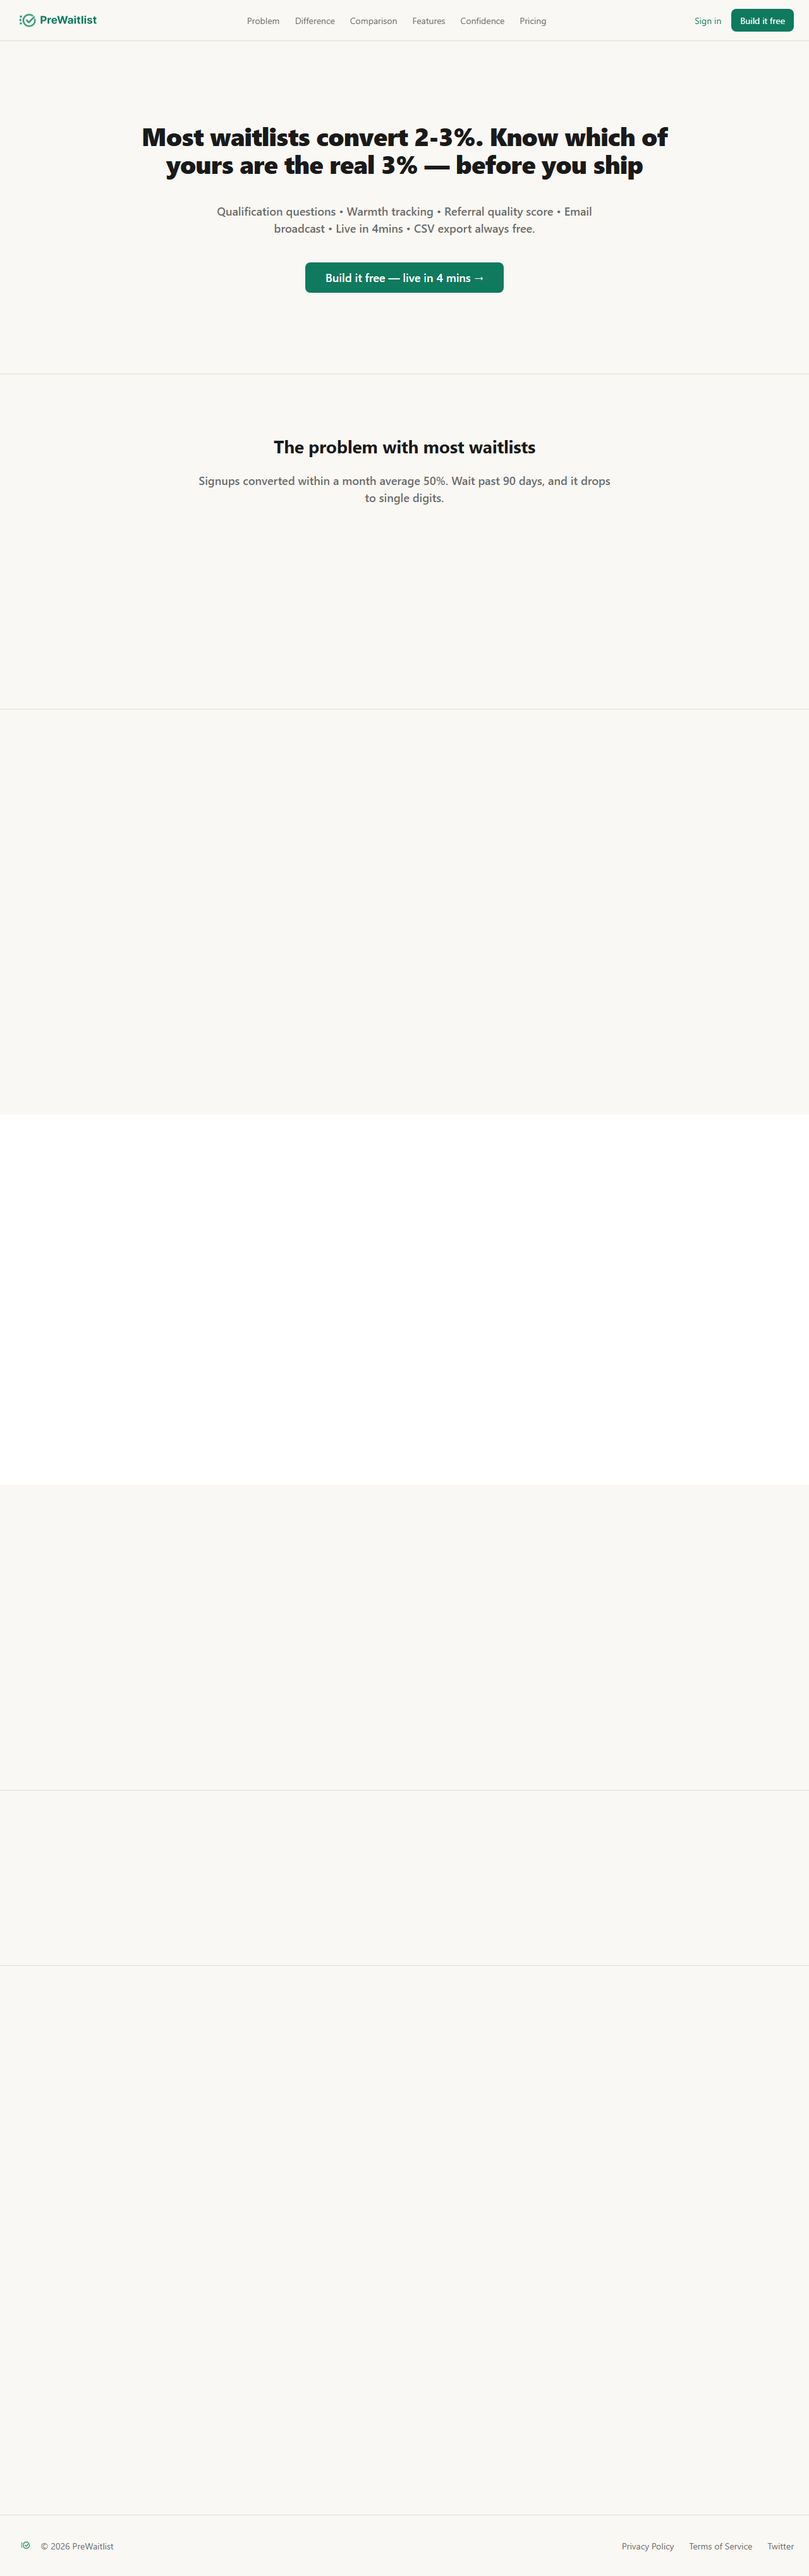
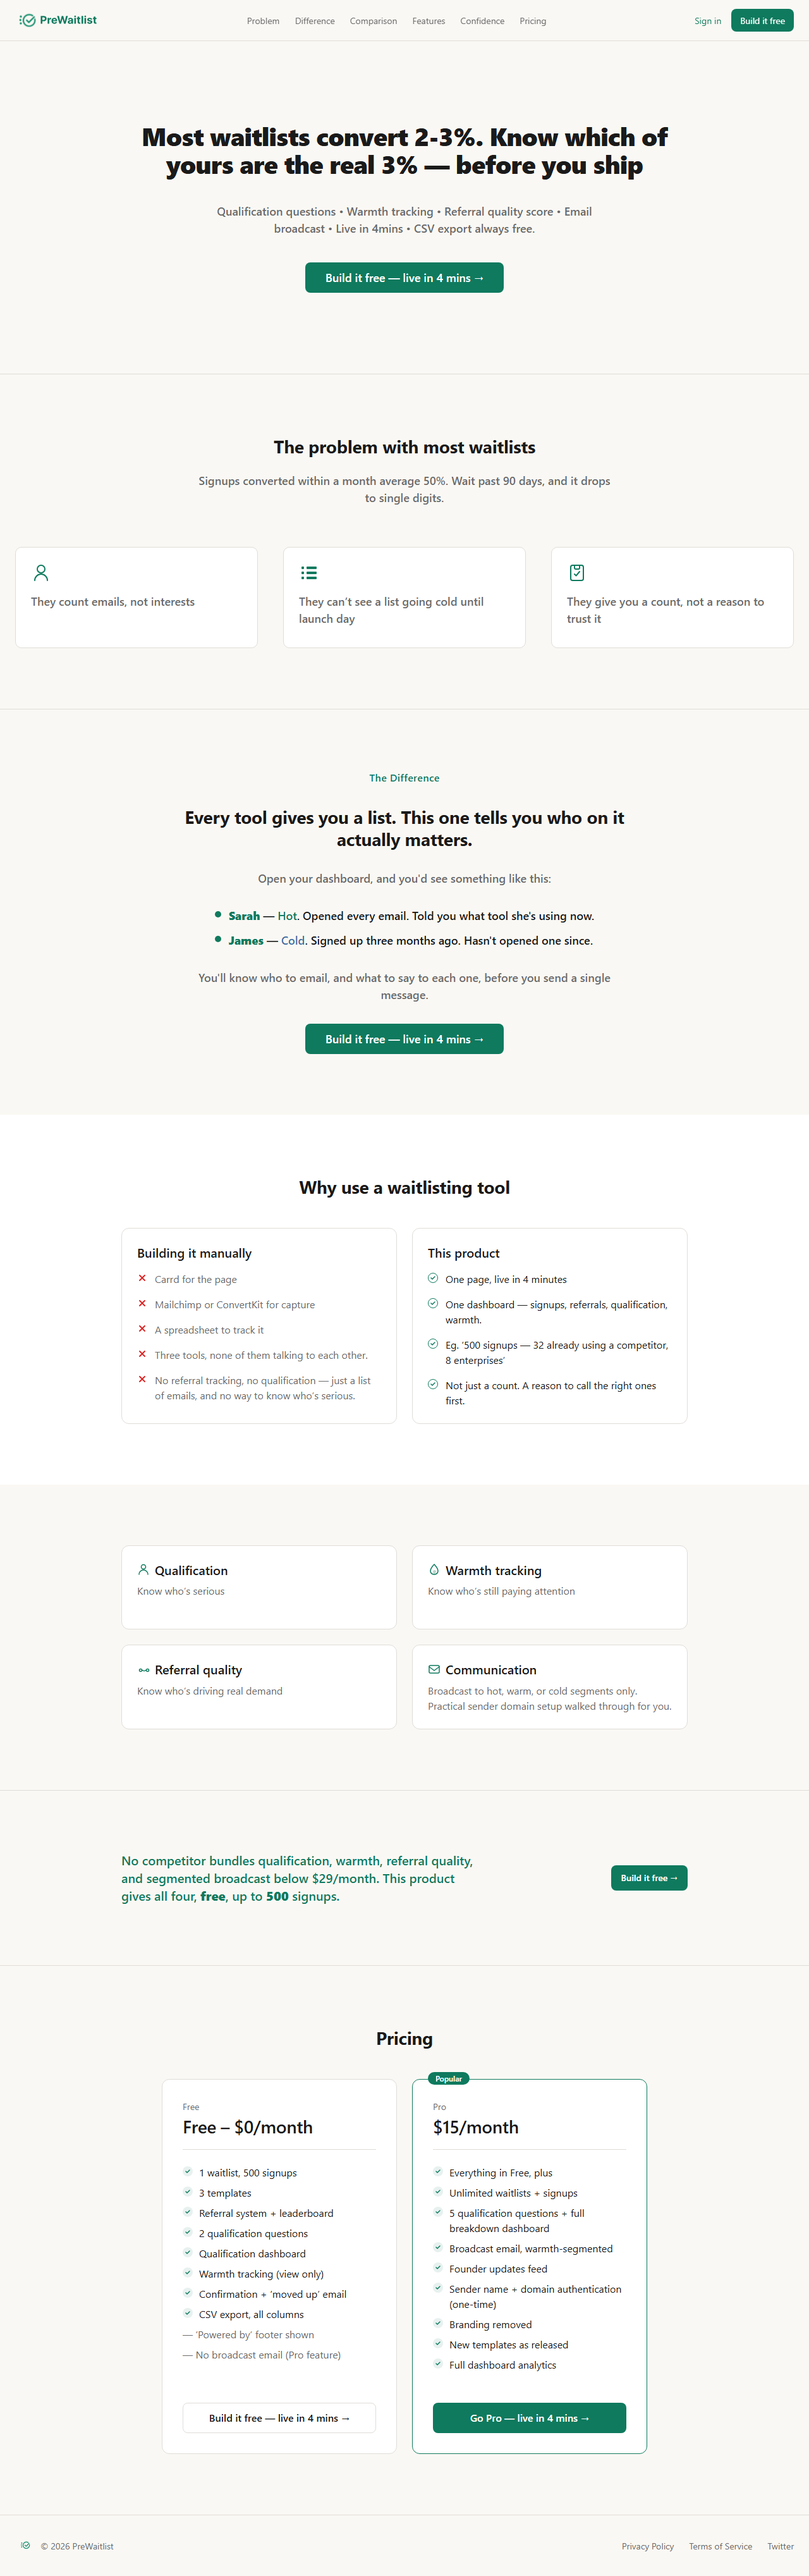
fix: story 21.2 audit fixes — try/finally tier restore, settle-scroll for whileInView marketing shot, CAPTURE_FILTER, manifest gone-page refs

diff --git a/tests/e2e/capture-screenshots.spec.ts b/tests/e2e/capture-screenshots.spec.ts
@@ -42,6 +42,7 @@ interface ShotSpec {
   viewport: "desktop" | "mobile";
   fullPage: boolean;
   inventoryId: string; // 21.1 inventory page ID
+  settleScroll?: boolean; // scroll page first — whileInView sections (marketing home)
 }
 
 /**
@@ -60,6 +61,7 @@ const SHOTS: ShotSpec[] = [
     viewport: "desktop",
     fullPage: true,
     inventoryId: "28",
+    settleScroll: true, // FadeIn/StaggerGroup are whileInView — scroll first
   },
   {
     nn: "02",
@@ -340,6 +342,15 @@ test("capture core screenshot set", async ({ page }) => {
   test.setTimeout(240_000);
   fs.mkdirSync(SHOTS_DIR, { recursive: true });
 
+  // Partial re-run: CAPTURE_FILTER=01 runs only that NN id (anon-only path —
+  // login, seed, and tier flips are skipped when no auth/pro shots are selected).
+  const filter = process.env.CAPTURE_FILTER ?? "";
+  const run: ShotSpec[] = filter ? SHOTS.filter((s) => s.nn === filter) : SHOTS;
+  if (filter && run.length === 0) {
+    throw new Error(`CAPTURE_FILTER=${filter} matched no shots`);
+  }
+  const needsAuth = run.some((s) => s.phase !== "anon");
+
   const captured: string[] = [];
   const failures: string[] = [];
 
@@ -356,6 +367,32 @@ test("capture core screenshot set", async ({ page }) => {
     );
   };
 
+  /**
+   * whileInView sections (framer-motion, marketing home) never trigger from a
+   * fullPage screenshot — Playwright stitches the viewport without scrolling,
+   * so below-fold sections stay in their hidden initial state. Scroll through
+   * the page in viewport steps so every section crosses its viewport amount
+   * (0.2-0.3), wait for the staggered transitions (≤0.5s items + 0.12s
+   * stagger), then return to top before capturing.
+   */
+  const settleScroll = async (p: Page) => {
+    await p.evaluate(async () => {
+      const step = Math.max(window.innerHeight * 0.75, 400);
+      const pause = (ms: number) =>
+        new Promise<void>((resolve) => setTimeout(resolve, ms));
+      const maxY = document.documentElement.scrollHeight;
+      for (let y = 0; y <= maxY; y += step) {
+        window.scrollTo(0, y);
+        await pause(180);
+      }
+      window.scrollTo(0, maxY);
+      await pause(300);
+    });
+    await p.waitForTimeout(2000);
+    await p.evaluate(() => window.scrollTo(0, 0));
+    await p.waitForTimeout(300);
+  };
+
   const shoot = async (spec: ShotSpec, ids: Record<string, string>) => {
     const url = spec.url.replace(
       /\{(\w+)\}/g,
@@ -369,6 +406,9 @@ test("capture core screenshot set", async ({ page }) => {
         .waitForLoadState("networkidle", { timeout: 5_000 })
         .catch(() => undefined);
       await page.evaluate(() => document.fonts.ready);
+      if (spec.settleScroll) {
+        await settleScroll(page);
+      }
       await page.mouse.move(-1, -1);
       const file = `${spec.nn}-${spec.id}-${spec.viewport}.png`;
       await page.screenshot({
@@ -400,11 +440,22 @@ test("capture core screenshot set", async ({ page }) => {
 
   // ---------- Phase A: anon captures (no auth) ----------
   console.log("Phase A: anon captures");
-  for (const spec of SHOTS.filter((s) => s.phase === "anon")) {
+  for (const spec of run.filter((s) => s.phase === "anon")) {
     if (spec.id.startsWith("onboarding-")) {
       await setDraft(page, "free");
     }
     await shoot(spec, { subdomain: QA_SUBDOMAIN });
+  }
+
+  if (!needsAuth) {
+    console.log(
+      `\nCaptured ${captured.length}/${run.length} shots (anon-only filter)`
+    );
+    if (failures.length > 0) {
+      console.error(`Failures (${failures.length}):\n${failures.join("\n")}`);
+      throw new Error(`${failures.length} captures failed`);
+    }
+    return;
   }
 
   // ---------- Login + seed ----------
@@ -507,91 +558,95 @@ test("capture core screenshot set", async ({ page }) => {
 
   // ---------- Phase B: authed free-tier captures ----------
   console.log("Phase B: authed free captures");
-  for (const spec of SHOTS.filter((s) => s.phase === "auth")) {
+  for (const spec of run.filter((s) => s.phase === "auth")) {
     await shoot(spec, ids);
   }
 
   // ---------- Phase C: pro flips ----------
   console.log("Phase C: pro captures");
   if (!creds.id) {
-    // Derive user id from the profile endpoint if the creds file lacks it.
-    const profRes = await api.get("/api/profile");
-    if (!profRes.ok()) {
-      throw new Error(`profile fetch failed: ${profRes.status()}`);
-    }
-    // profile response has no raw id — fall back to waitlist founder via REST
+    // Resolve founder id via REST (secret key — independent of browser session).
     const envLocal = loadEnvLocal();
     const base =
       process.env.NEXT_PUBLIC_SUPABASE_URL || envLocal.NEXT_PUBLIC_SUPABASE_URL;
     const key = process.env.SUPABASE_SECRET_KEY || envLocal.SUPABASE_SECRET_KEY;
-    if (base && key) {
-      const wRes = await fetch(
-        `${base}/rest/v1/waitlists?id=eq.${waitlistId}&select=founder_id`,
-        {
-          headers: { apikey: key, Authorization: `Bearer ${key}` },
-        }
+    if (!base || !key) {
+      throw new Error(
+        "cannot resolve founder user id — creds.id missing and NEXT_PUBLIC_SUPABASE_URL/SUPABASE_SECRET_KEY unset"
       );
-      const wRows = await wRes.json();
-      if (Array.isArray(wRows) && wRows[0]?.founder_id) {
-        creds.id = wRows[0].founder_id as string;
+    }
+    const wRes = await fetch(
+      `${base}/rest/v1/waitlists?id=eq.${waitlistId}&select=founder_id`,
+      {
+        headers: { apikey: key, Authorization: `Bearer ${key}` },
       }
+    );
+    const wRows = wRes.ok() ? await wRes.json() : [];
+    if (Array.isArray(wRows) && wRows[0]?.founder_id) {
+      creds.id = wRows[0].founder_id as string;
     }
   }
   if (!creds.id) {
     throw new Error("cannot resolve founder user id for tier flip");
   }
 
-  await setTier("pro", creds.id);
+  // try/finally: a timeout or throw mid-pro-phase must never leave the QA
+  // account on pro — that would silently corrupt the next run's free-state
+  // shots (13-dashboard-home-free, 15-dashboard-warmth-free).
+  try {
+    await setTier("pro", creds.id);
 
-  // Ensure an empty waitlist exists for the empty-dashboard shot (pro = unlimited).
-  let emptyRow = findRow(EMPTY_SUBDOMAIN);
-  let emptyWaitlistId = emptyRow?.waitlistId ?? emptyRow?.id ?? "";
-  if (!emptyWaitlistId) {
-    // Re-read the list — we may have created qa-mobile above.
-    const freshList = await api.get("/api/waitlist");
-    const freshRows: {
-      waitlistId?: string;
-      id?: string;
-      slug?: string;
-      subdomain?: string;
-    }[] = freshList.ok() ? await freshList.json() : [];
-    emptyRow = freshRows.find(
-      (w) => w.slug === EMPTY_SUBDOMAIN || w.subdomain === EMPTY_SUBDOMAIN
-    );
-    emptyWaitlistId = emptyRow?.waitlistId ?? emptyRow?.id ?? "";
-  }
-  if (!emptyWaitlistId) {
-    const createRes = await api.post("/api/waitlist", {
-      data: {
-        subdomain: EMPTY_SUBDOMAIN,
-        headline: "Empty State Capture",
-        subheadline: "Zero-subscriber dashboard state.",
-        product_name: "QA Empty",
-        template: "minimal",
-      },
-    });
-    if (createRes.ok()) {
-      emptyWaitlistId = (await createRes.json()).id as string;
-    } else {
-      console.warn(
-        `qa-empty create failed (${createRes.status()}) — empty-dashboard shot will fall back to qa-mobile`
+    // Ensure an empty waitlist exists for the empty-dashboard shot (pro = unlimited).
+    let emptyRow = findRow(EMPTY_SUBDOMAIN);
+    let emptyWaitlistId = emptyRow?.waitlistId ?? emptyRow?.id ?? "";
+    if (!emptyWaitlistId) {
+      // Re-read the list — we may have created qa-mobile above.
+      const freshList = await api.get("/api/waitlist");
+      const freshRows: {
+        waitlistId?: string;
+        id?: string;
+        slug?: string;
+        subdomain?: string;
+      }[] = freshList.ok() ? await freshList.json() : [];
+      emptyRow = freshRows.find(
+        (w) => w.slug === EMPTY_SUBDOMAIN || w.subdomain === EMPTY_SUBDOMAIN
       );
+      emptyWaitlistId = emptyRow?.waitlistId ?? emptyRow?.id ?? "";
     }
-  }
-  ids.emptyWaitlistId = emptyWaitlistId || waitlistId;
-  console.log(`qa-empty waitlist: ${ids.emptyWaitlistId}`);
+    if (!emptyWaitlistId) {
+      const createRes = await api.post("/api/waitlist", {
+        data: {
+          subdomain: EMPTY_SUBDOMAIN,
+          headline: "Empty State Capture",
+          subheadline: "Zero-subscriber dashboard state.",
+          product_name: "QA Empty",
+          template: "minimal",
+        },
+      });
+      if (!createRes.ok()) {
+        // Never fall back to qa-mobile — a populated dashboard labeled
+        // "empty" is worse evidence than a failed run.
+        throw new Error(
+          `qa-empty waitlist create failed: ${createRes.status()} ${await createRes.text()}`
+        );
+      }
+      emptyWaitlistId = (await createRes.json()).id as string;
+    }
+    ids.emptyWaitlistId = emptyWaitlistId;
+    console.log(`qa-empty waitlist: ${ids.emptyWaitlistId}`);
 
-  for (const spec of SHOTS.filter((s) => s.phase === "pro")) {
-    await setDraft(page, "pro");
-    await shoot(spec, ids);
+    for (const spec of run.filter((s) => s.phase === "pro")) {
+      await setDraft(page, "pro");
+      await shoot(spec, ids);
+    }
+  } finally {
+    // ---------- Restore free tier (re-run determinism) ----------
+    await setTier("free", creds.id);
+    console.log("Tier restored to free");
   }
-
-  // ---------- Restore free tier (re-run determinism) ----------
-  await setTier("free", creds.id);
-  console.log("Tier restored to free");
 
   // ---------- Summary ----------
-  console.log(`\nCaptured ${captured.length}/${SHOTS.length} shots`);
+  console.log(`\nCaptured ${captured.length}/${run.length} shots`);
   if (failures.length > 0) {
     console.error(`Failures (${failures.length}):\n${failures.join("\n")}`);
     throw new Error(`${failures.length} captures failed`);

diff --git a/docs/qa/screenshots/manifest.md b/docs/qa/screenshots/manifest.md
@@ -6,29 +6,31 @@ Naming: `NN-page-state-viewport.png`. Desktop = 1280×800, Mobile = 375×667. Al
 
 ## Core set (NN-*)
 
-| #   | Filename                                | Page                                          | State                                 | Viewport | Full page | Inventory ID |
-| --- | --------------------------------------- | --------------------------------------------- | ------------------------------------- | -------- | --------- | ------------ |
-| 01  | `01-marketing-home-desktop.png`         | Marketing homepage                            | Cold visitor                          | desktop  | yes       | 28           |
-| 02  | `02-waitlist-populated-desktop.png`     | Public waitlist (`quality`, Minimal template) | Populated, free tier                  | desktop  | yes       | 29           |
-| 03  | `03-leaderboard-public-desktop.png`     | Public leaderboard (`quality`)                | Populated                             | desktop  | yes       | 31           |
-| 04  | `04-gone-archived-desktop.png`          | Gone / archived notice (`quality/gone`)       | Archived guard                        | desktop  | no        | guard        |
-| 05  | `05-waitlist-dark-template-desktop.png` | Public waitlist (`p`, Dark template)          | Populated, alt template               | desktop  | yes       | 29           |
-| 06  | `06-signup-desktop.png`                 | Signup                                        | Anonymous                             | desktop  | no        | 9            |
-| 07  | `07-onboarding-1-desktop.png`           | Onboarding Step 1                             | Phase A draft (localStorage)          | desktop  | no        | 1            |
-| 08  | `08-onboarding-3-desktop.png`           | Onboarding Step 3                             | Phase A draft (localStorage)          | desktop  | no        | 3            |
-| 09  | `09-waitlist-populated-mobile.png`      | Public waitlist (`quality`)                   | Populated                             | mobile   | yes       | 29           |
-| 10  | `10-leaderboard-public-mobile.png`      | Public leaderboard (`quality`)                | Populated                             | mobile   | yes       | 31           |
-| 11  | `11-gone-archived-mobile.png`           | Gone / archived notice                        | Archived guard                        | mobile   | no        | guard        |
-| 12  | `12-thank-you-desktop.png`              | Thank-you (`qa-mobile`, seeded ids)           | Referred variant                      | desktop  | no        | 30           |
-| 13  | `13-dashboard-home-free-desktop.png`    | Dashboard overview                            | Populated, free tier                  | desktop  | no        | 15           |
-| 14  | `14-dashboard-leaderboard-desktop.png`  | Dashboard leaderboard                         | Populated                             | desktop  | no        | 16           |
-| 15  | `15-dashboard-warmth-free-desktop.png`  | Dashboard warmth                              | Free (locked state)                   | desktop  | no        | 18           |
-| 16  | `16-settings-hub-desktop.png`           | Settings hub                                  | Free tier                             | desktop  | no        | 22           |
-| 17  | `17-thank-you-mobile.png`               | Thank-you (`qa-mobile`)                       | Referred variant                      | mobile   | no        | 30           |
-| 18  | `18-onboarding-5-desktop.png`           | Onboarding Step 5                             | Phase B, pro tier (guard bypass)      | desktop  | no        | 6            |
-| 19  | `19-onboarding-success-desktop.png`     | Onboarding success                            | Phase B, pro tier                     | desktop  | no        | 7            |
-| 20  | `20-dashboard-home-pro-desktop.png`     | Dashboard overview                            | Populated, pro tier (warmth unlocked) | desktop  | no        | 15           |
-| 21  | `21-dashboard-empty-desktop.png`        | Dashboard overview (`qa-empty`)               | Zero subscribers, empty state         | desktop  | no        | 15           |
+| #   | Filename                                | Page                                          | State                        | Viewport | Full page | Inventory ID |
+| --- | --------------------------------------- | --------------------------------------------- | ---------------------------- | -------- | --------- | ------------ |
+| 01  | `01-marketing-home-desktop.png`         | Marketing homepage                            | Cold visitor                 | desktop  | yes       | 28           |
+| 02  | `02-waitlist-populated-desktop.png`     | Public waitlist (`quality`, Minimal template) | Populated, free tier         | desktop  | yes       | 29           |
+| 03  | `03-leaderboard-public-desktop.png`     | Public leaderboard (`quality`)                | Populated                    | desktop  | yes       | 31           |
+| 04  | `04-gone-archived-desktop.png`          | Gone / archived notice (`quality/gone`)       | Archived guard               | desktop  | no        | §6/§7†       |
+| 05  | `05-waitlist-dark-template-desktop.png` | Public waitlist (`p`, Dark template)          | Populated, alt template      | desktop  | yes       | 29           |
+| 06  | `06-signup-desktop.png`                 | Signup                                        | Anonymous                    | desktop  | no        | 9            |
+| 07  | `07-onboarding-1-desktop.png`           | Onboarding Step 1                             | Phase A draft (localStorage) | desktop  | no        | 1            |
+| 08  | `08-onboarding-3-desktop.png`           | Onboarding Step 3                             | Phase A draft (localStorage) | desktop  | no        | 3            |
+| 09  | `09-waitlist-populated-mobile.png`      | Public waitlist (`quality`)                   | Populated                    | mobile   | yes       | 29           |
+| 10  | `10-leaderboard-public-mobile.png`      | Public leaderboard (`quality`)                | Populated                    | mobile   | yes       | 31           |
+| 11  | `11-gone-archived-mobile.png`           | Gone / archived notice                        | Archived guard               | mobile   | no        | §6/§7†       |
+
+† `/gone` has no numbered page ID in the 21.1 inventory — it is documented as a guard/observable state (app-inventory.md §6 Observable States, §7 Guards Summary: archived waitlist → `/{subdomain}/gone`), so this row cites those sections instead of a page number.
+| 12 | `12-thank-you-desktop.png` | Thank-you (`qa-mobile`, seeded ids) | Referred variant | desktop | no | 30 |
+| 13 | `13-dashboard-home-free-desktop.png` | Dashboard overview | Populated, free tier | desktop | no | 15 |
+| 14 | `14-dashboard-leaderboard-desktop.png` | Dashboard leaderboard | Populated | desktop | no | 16 |
+| 15 | `15-dashboard-warmth-free-desktop.png` | Dashboard warmth | Free (locked state) | desktop | no | 18 |
+| 16 | `16-settings-hub-desktop.png` | Settings hub | Free tier | desktop | no | 22 |
+| 17 | `17-thank-you-mobile.png` | Thank-you (`qa-mobile`) | Referred variant | mobile | no | 30 |
+| 18 | `18-onboarding-5-desktop.png` | Onboarding Step 5 | Phase B, pro tier (guard bypass) | desktop | no | 6 |
+| 19 | `19-onboarding-success-desktop.png` | Onboarding success | Phase B, pro tier | desktop | no | 7 |
+| 20 | `20-dashboard-home-pro-desktop.png` | Dashboard overview | Populated, pro tier (warmth unlocked) | desktop | no | 15 |
+| 21 | `21-dashboard-empty-desktop.png` | Dashboard overview (`qa-empty`) | Zero subscribers, empty state | desktop | no | 15 |
 
 ## Seed / data prerequisites
 
